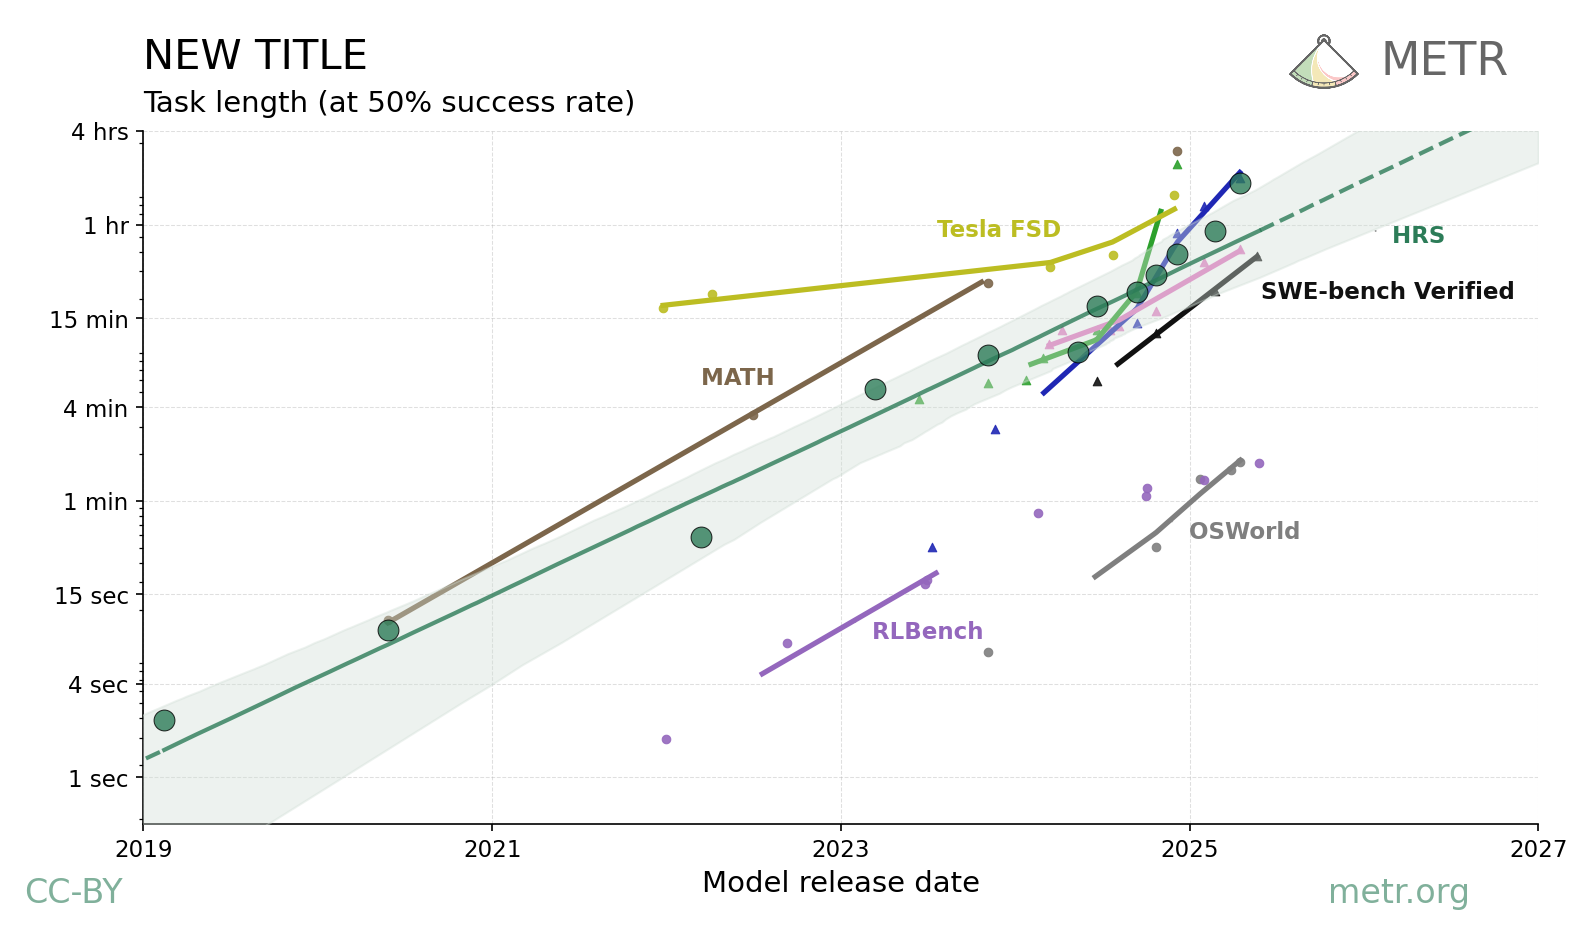
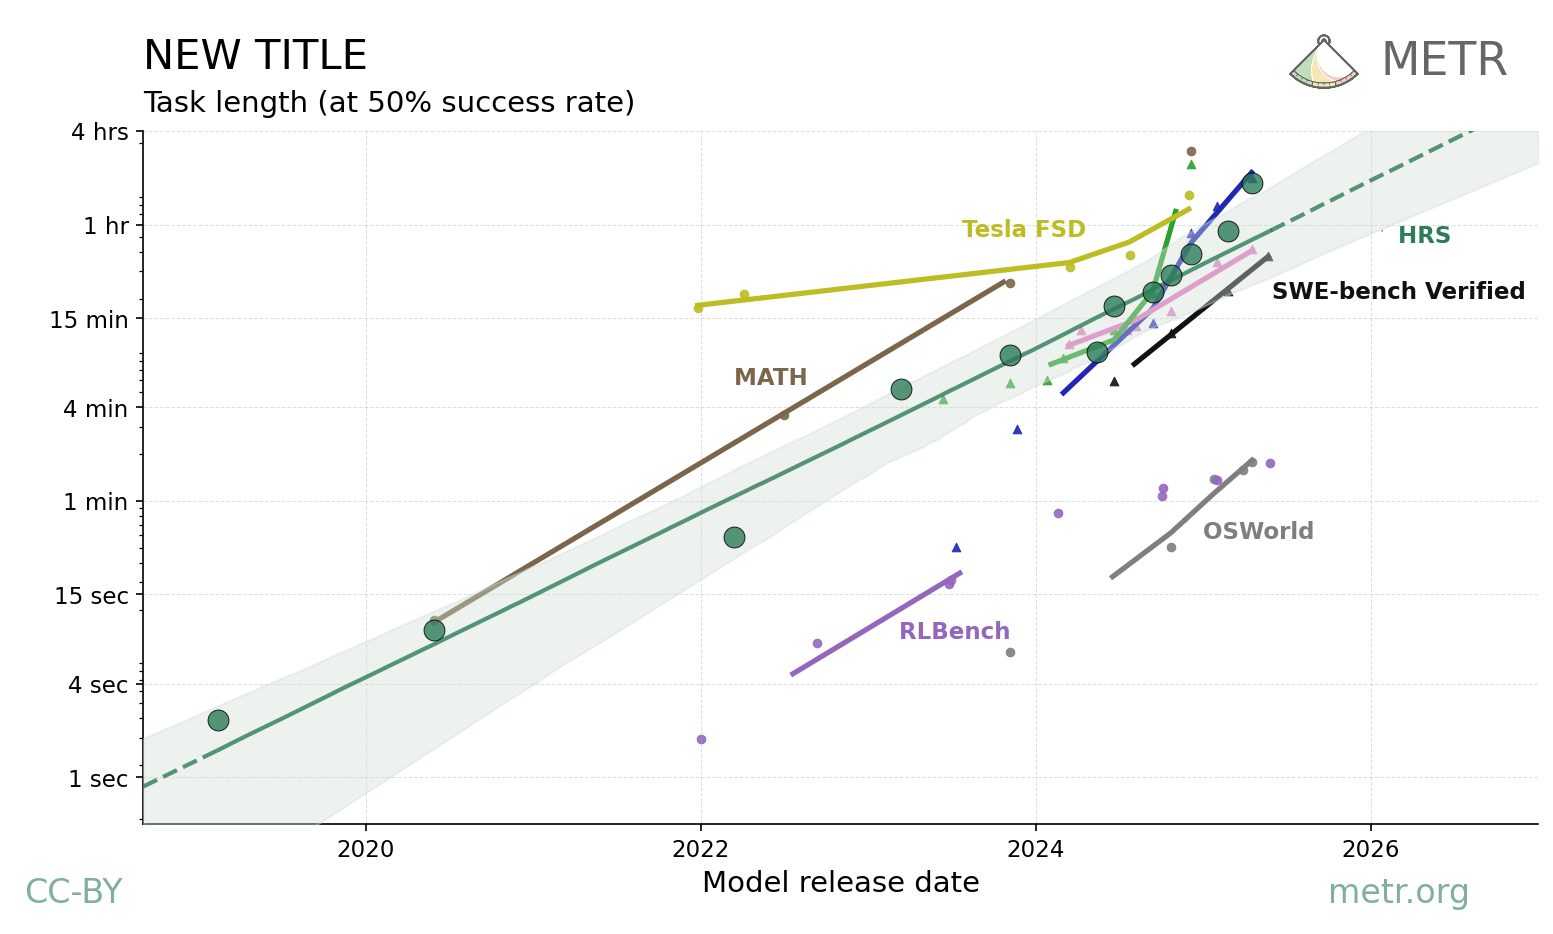
x-axis officially the same

diff --git a/combined.py b/combined.py
@@ -817,7 +817,7 @@ def plot_combined(df, output_file,
     # Use configured x-axis limits from params
     if params.xbound:
         # x_lim_start = pd.Timestamp(params.xbound[0])
-        x_lim_start = pd.Timestamp("2019-01-01")
+        x_lim_start = pd.Timestamp("2018-09-03")
         x_lim_end = pd.Timestamp(params.xbound[1])
     else:
         # Fallback to default values if not configured
@@ -828,9 +828,9 @@ def plot_combined(df, output_file,
     ax.set_xlim(x_lim_start, x_lim_end)
     
     # Calculate year range for ticks based on the limits
-    start_year = x_lim_start.year
+    start_year = x_lim_start.year + 1
     end_year = x_lim_end.year + 1
-    utils_plots.make_quarterly_xticks(ax, start_year, end_year, skip=2)
+    utils_plots.make_quarterly_xticks(ax, start_year+1, end_year, skip=2)
     
     if params.ybound is not None:
         ax.set_ylim(params.ybound)
